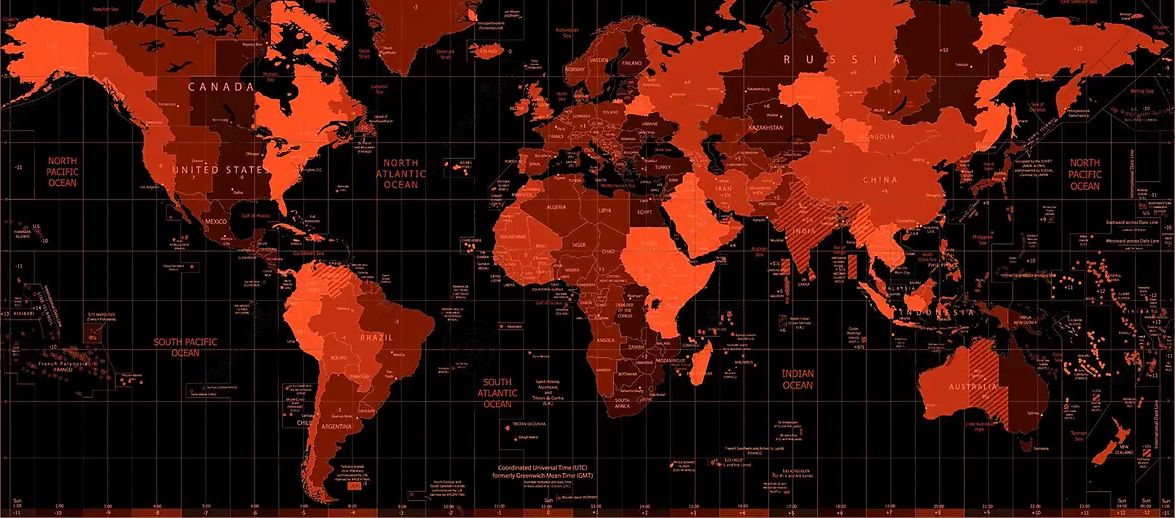
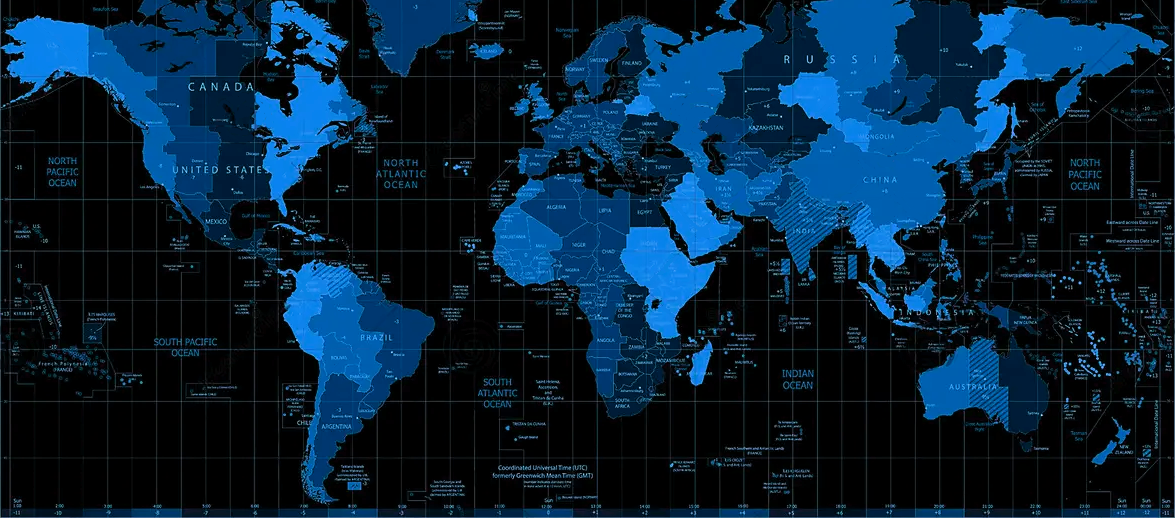
fixing theme selection, fix backgroud image dark mode Hue

diff --git a/world_time.py b/world_time.py
@@ -15,7 +15,7 @@ class App(ttk.Window):
     # windows
     def __init__(self, title, size):
         super().__init__()
-        ttk.Style('cerculean')
+        ttk.Style('worldtime')
         self.title(title)
         self.geometry(f'{size[0]}x{size[1]}')
         self.minsize(size[0], size[1])
@@ -134,6 +134,19 @@ def get_styleimg(img: str, wdth: int, hght: int):
     return image
 
 
+def setup_theme(val: bool):
+    global setimg
+    inv_image = {output_label1: ['GUI/darkmode/invertworldmap1.png', 450, 190, 'GUI/lightmode/worldmap1.png'],
+                 output_lable2: ['GUI/darkmode/invertworldmap2.png', 450, 23, 'GUI/lightmode/worldmap2.png'], output_label3: ['GUI/darkmode/invertworldmap3.png', 450, 23, 'GUI/lightmode/worldmap3.png']}
+    for invimgkey, invimgval in inv_image.items():
+        setimgval = invimgval[3]
+        if not val:
+            setimgval = invimgval[0]
+        setimg = get_styleimg(setimgval, invimgval[1], invimgval[2])
+        invimgkey.config(image=setimg)
+        invimgkey.imagerf = setimg
+
+
 class The_time:
     def __init__(self, zone):
         if zone:
@@ -176,27 +189,16 @@ class Title_frame(ttk.Frame):
 
     def change_theme(self):
         App.style = ttk.Style()
-        global setimg
         current_theme = App.style.theme_use()
-        inv_image = {output_label1: ['GUI/darkmode/invertworldmap1.png', 450, 190, 'GUI/lightmode/worldmap1.png'],
-                     output_lable2: ['GUI/darkmode/invertworldmap2.png', 450, 23, 'GUI/lightmode/worldmap2.png'], output_label3: ['GUI/darkmode/invertworldmap3.png', 450, 23, 'GUI/lightmode/worldmap3.png']}
         tips_txt = ['Select Light Mode', 'Select Dark Mode']
         if current_theme != 'darkly':
             current_theme = 'darkly'
             tool_tip.text = tips_txt[0]
-            for invimgkey, invimgval in inv_image.items():
-                setimg = get_styleimg(
-                    invimgval[0], invimgval[1], invimgval[2])
-                invimgkey.config(image=setimg)
-                invimgkey.imagerf = setimg
+            setup_theme(False)
         else:
-            current_theme = 'cerculean'
+            current_theme = 'worldtime'
             tool_tip.text = tips_txt[1]
-            for invimgkey, invimgval in inv_image.items():
-                setimg = get_styleimg(
-                    invimgval[3], invimgval[1], invimgval[2])
-                invimgkey.config(image=setimg)
-                invimgkey.imagerf = setimg
+            setup_theme(True)
 
         App.style.theme_use(current_theme)
 
@@ -221,6 +223,8 @@ class Input_aframe(ttk.Frame):
         input_entry.pack(padx=5, side='left')
         input_button.pack(padx=5, side='left')
 
+# local time frame
+
 
 class Local_time(ttk.Frame):
     def __init__(self, master, Ltext: str, Lfont: str, timef: str):
@@ -235,6 +239,8 @@ class Local_time(ttk.Frame):
         localttx.pack(side='top', fill='x')
         localtimetxt.pack(side='top', fill='x')
         self.pack(padx=7)
+
+# country text
 
 
 class Output_txtframe(ttk.Frame):
@@ -255,6 +261,8 @@ class Output_txtframe(ttk.Frame):
         output_lable2.pack(expand=True, side='top')
         self.pack()
 
+# main time frame
+
 
 class Time_frame(ttk.Frame):
     def __init__(self, master, tfont: str):
@@ -265,7 +273,7 @@ class Time_frame(ttk.Frame):
 
         output_timestr = tk.StringVar()
         output_label1 = ttk.Label(self, border='0', image=self.image, textvariable=output_timestr,
-                                  font=tfont, foreground='#126D90',  compound='center')
+                                  font=tfont,  compound='center')
         output_label1.pack(ipadx='5', side='top')
         self.pack()
         self.after(600, self.update_time_frame)
